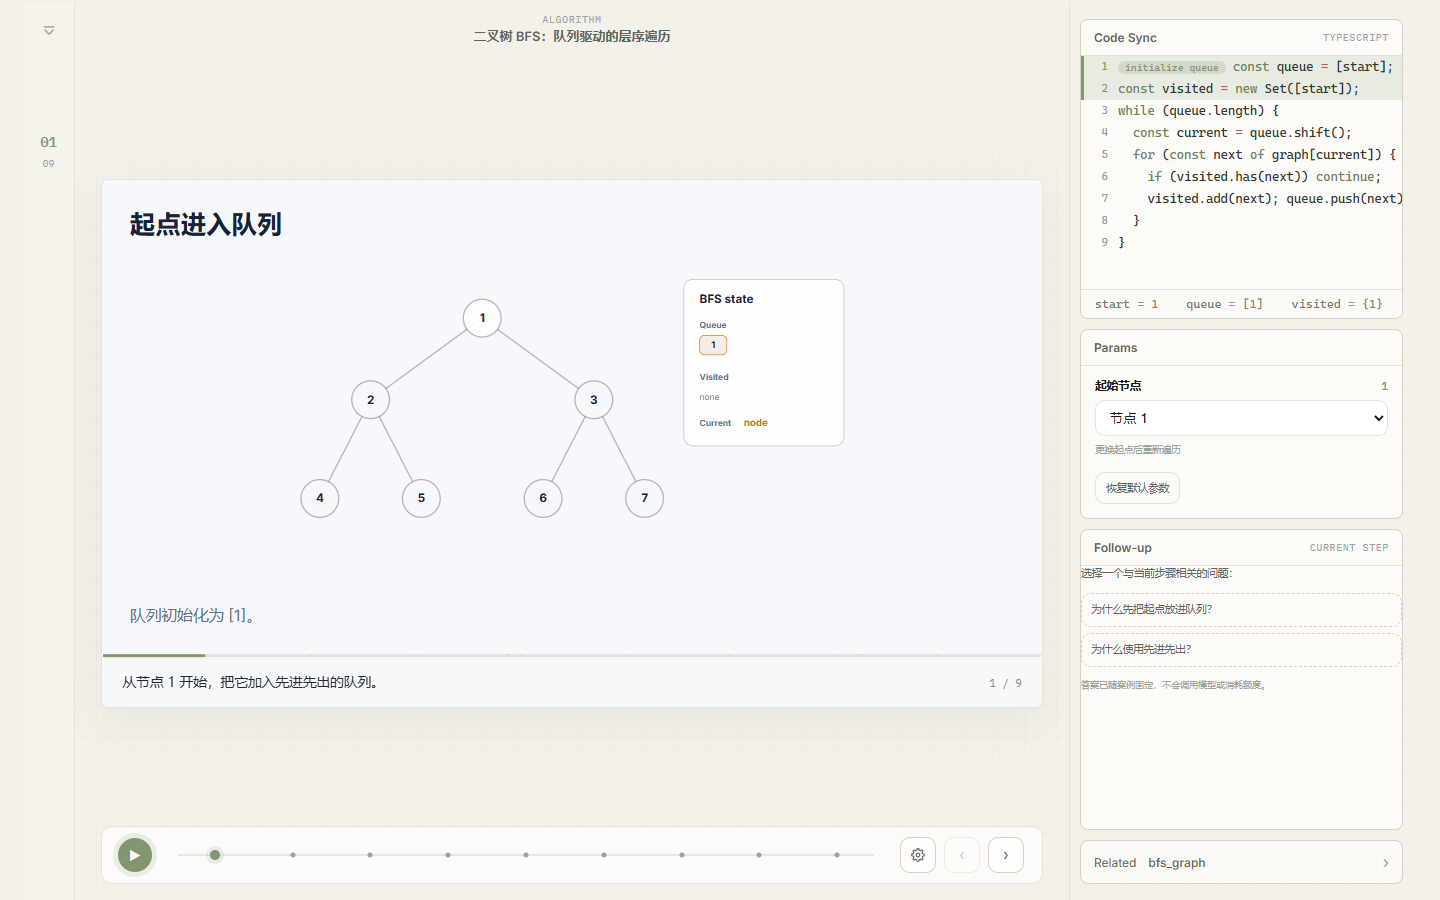
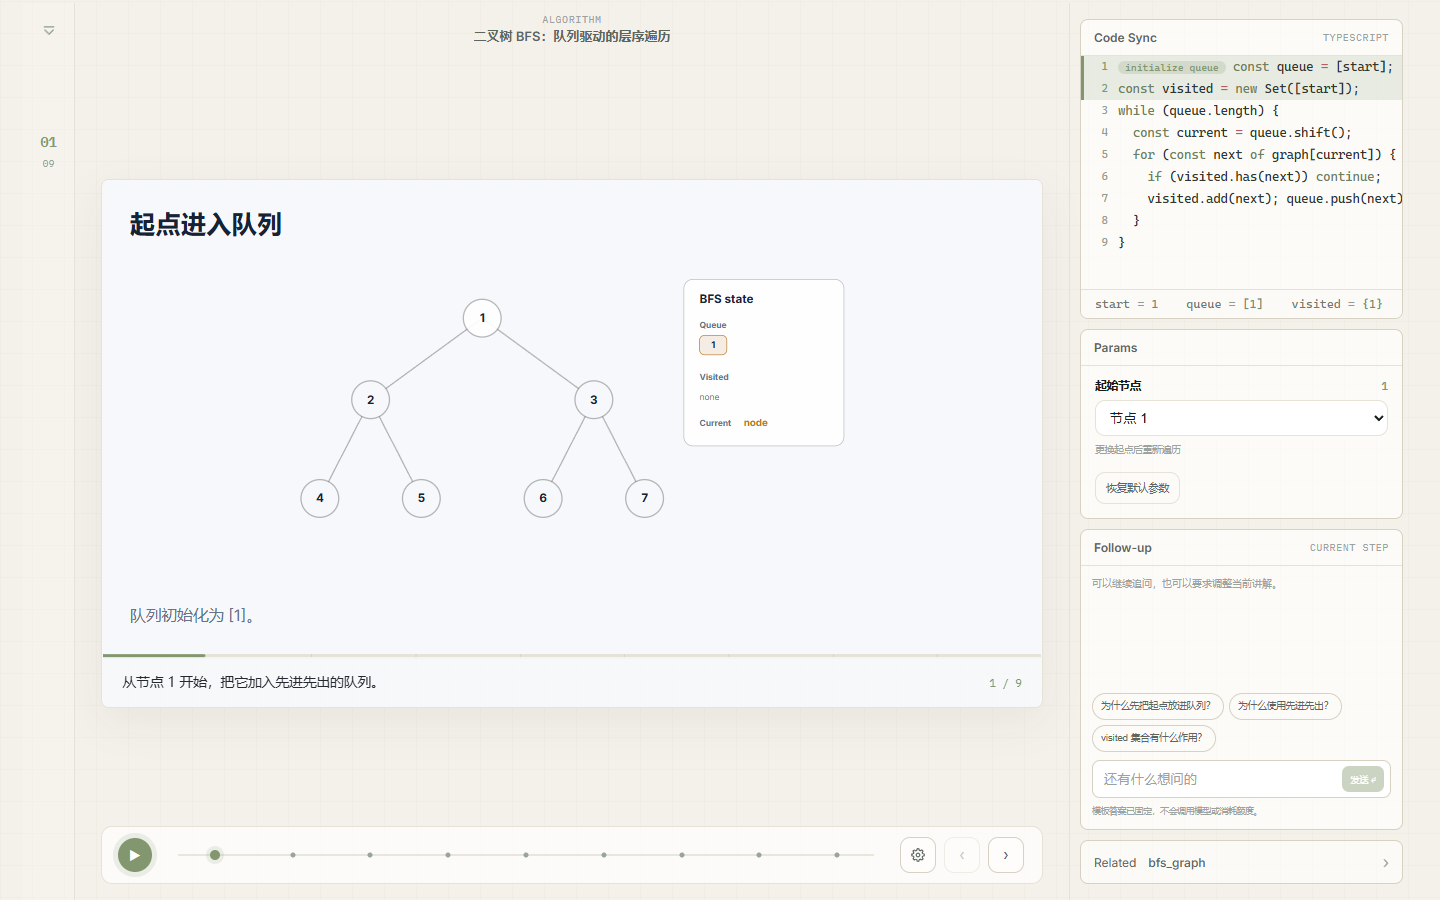
fix(ui): align template follow-up dialog

Changed region(s): [[0.75, 0.7156, 0.9375, 0.9022], [0.75, 0.6222, 0.875, 0.6844], [0.9062, 0.84, 0.9688, 0.9022]]

diff --git a/apps/web/src/styles/pages/templates.css b/apps/web/src/styles/pages/templates.css
@@ -513,23 +513,70 @@
 
 .mv-static-followup {
   width: 100%;
-  display: grid;
-  align-content: start;
-  gap: 11px;
+  height: 100%;
+  min-height: 0;
+  display: flex;
+  flex-direction: column;
+  gap: 8px;
+  padding: 10px 11px 11px;
 }
-.mv-static-followup > p { margin: 0; color: var(--ink-2); font-size: 10.5px; line-height: 1.5; }
-.mv-static-followup__questions { display: grid; gap: 6px; }
+.mv-static-followup__stream {
+  flex: 1 1 auto;
+  min-height: 48px;
+  display: flex;
+  flex-direction: column;
+  gap: 7px;
+  overflow-y: auto;
+}
+
+.mv-static-followup__stream > p {
+  margin: 0;
+  color: var(--ink-3);
+  font-size: 10px;
+  line-height: 1.5;
+}
+
+.mv-static-followup__message {
+  max-width: 92%;
+  padding: 7px 9px;
+  border: 1px solid var(--line);
+  border-radius: 9px;
+  color: var(--ink-2);
+  font-size: 10px;
+  line-height: 1.5;
+}
+
+.mv-static-followup__message.is-user {
+  align-self: flex-end;
+  background: var(--accent-soft);
+  border-color: color-mix(in srgb, var(--accent) 28%, var(--line));
+  color: var(--ink);
+}
+
+.mv-static-followup__message.is-assistant {
+  align-self: flex-start;
+  background: var(--surface-2);
+}
+
+.mv-static-followup__questions {
+  display: flex;
+  flex-wrap: wrap;
+  gap: 5px;
+}
 
 .mv-static-followup__questions button {
-  min-height: 34px;
-  padding: 7px 9px;
-  border: 1px dashed var(--line-2);
-  border-radius: var(--radius-sm);
+  flex: 0 1 auto;
+  max-width: 100%;
+  min-height: 27px;
+  padding: 4px 8px;
+  border: 1px solid var(--line-2);
+  border-radius: 999px;
   background: transparent;
   color: var(--ink-2);
-  font-size: 10.5px;
-  line-height: 1.45;
+  font-size: 9.5px;
+  line-height: 1.35;
   text-align: left;
+  white-space: normal;
   cursor: pointer;
 }
 
@@ -541,15 +588,41 @@
   color: var(--ink);
 }
 
-.mv-static-followup__answer {
-  padding: 10px;
-  border-left: 2px solid var(--accent);
-  background: color-mix(in srgb, var(--accent) 7%, var(--surface));
+.mv-static-followup__input-row {
+  min-height: 36px;
+  display: grid;
+  grid-template-columns: minmax(0, 1fr) auto;
+  align-items: center;
+  gap: 6px;
+  padding: 5px 6px 5px 9px;
+  border: 1px solid var(--line-2);
+  border-radius: 8px;
+  background: var(--surface);
 }
 
-.mv-static-followup__answer strong { color: var(--ink); font-size: 10.5px; }
-.mv-static-followup__answer p { margin: 5px 0 0; color: var(--ink-2); font-size: 10.5px; line-height: 1.55; }
-.mv-static-followup > small { color: var(--ink-3); font-size: 9px; line-height: 1.5; }
+.mv-static-followup__input-row input {
+  min-width: 0;
+  border: 0;
+  outline: 0;
+  background: transparent;
+  color: var(--ink);
+  font: 10px/1.4 inherit;
+}
+
+.mv-static-followup__input-row input::placeholder { color: var(--ink-3); }
+
+.mv-static-followup__input-row button {
+  min-height: 26px;
+  padding: 0 8px;
+  border: 0;
+  border-radius: 7px;
+  background: color-mix(in srgb, var(--accent) 58%, var(--surface));
+  color: var(--surface);
+  font-size: 9px;
+}
+
+.mv-static-followup__input-row button:disabled { cursor: not-allowed; opacity: .72; }
+.mv-static-followup > small { color: var(--ink-3); font-size: 8.5px; line-height: 1.4; }
 
 @keyframes mv-template-reveal {
   from { opacity: 0; transform: translateY(8px); }

diff --git a/apps/web/src/pages/Templates/StaticFollowupPanel.tsx b/apps/web/src/pages/Templates/StaticFollowupPanel.tsx
@@ -7,7 +7,16 @@ export function StaticFollowupPanel({ questions }: { questions: TemplatePreviewQ
 
   return (
     <div className="mv-static-followup">
-      <p>选择一个与当前步骤相关的问题：</p>
+      <div className="mv-static-followup__stream" aria-live="polite">
+        {selected ? (
+          <>
+            <div className="mv-static-followup__message is-user">{selected.question}</div>
+            <div className="mv-static-followup__message is-assistant">{selected.answer}</div>
+          </>
+        ) : (
+          <p>可以继续追问，也可以要求调整当前讲解。</p>
+        )}
+      </div>
       <div className="mv-static-followup__questions">
         {questions.map((item) => (
           <button
@@ -20,14 +29,17 @@ export function StaticFollowupPanel({ questions }: { questions: TemplatePreviewQ
           </button>
         ))}
       </div>
-      {selected ? (
-        <div className="mv-static-followup__answer" role="status" aria-live="polite">
-          <strong>{selected.question}</strong>
-          <p>{selected.answer}</p>
-        </div>
-      ) : (
-        <small>答案已随案例固定，不会调用模型或消耗额度。</small>
-      )}
+      <div className="mv-static-followup__input-row">
+        <input
+          type="text"
+          aria-label="继续追问"
+          placeholder="还有什么想问的"
+          readOnly
+          title="模板案例仅支持上方固定问题"
+        />
+        <button type="button" disabled aria-label="发送追问">发送 ↵</button>
+      </div>
+      <small>模板答案已固定，不会调用模型或消耗额度。</small>
     </div>
   );
 }

diff --git a/apps/web/src/pages/Templates/templatePreviewCases.ts b/apps/web/src/pages/Templates/templatePreviewCases.ts
@@ -486,6 +486,7 @@ function buildBfsFollowups(params: TemplatePreviewParams): TemplatePreviewFollow
       "bfs-intro",
       ["为什么先把起点放进队列？", "队列保存已经发现、但还没有展开邻居的节点。"],
       ["为什么使用先进先出？", "先进先出保证先发现的浅层节点先被处理，因此形成逐层遍历。"],
+      ["visited 集合有什么作用？", "它记录已经发现的节点，避免同一个节点被重复入队和访问。"],
     ),
   };
   trace.forEach((state) => {
@@ -639,7 +640,7 @@ function buildDerivativeFollowups(params: TemplatePreviewParams, script: Playboo
       ["当前切点和斜率是多少？", `切点 a=${fixed(markerX)}，对应导数与切线斜率都是 ${fixed(slope)}。`],
       item.step_id.includes("secant")
         ? ["为什么还不是切线？", "当前仍连接两个不同的函数点；只有当 h 趋近零时，割线才收敛为切线。"]
-        : undefined,
+        : ["导数在图像上表示什么？", "导数表示当前切点处切线的斜率，也就是函数在这一点的瞬时变化率。"],
     ),
   ]));
 }

diff --git a/apps/web/src/styles/pages/playbookLayout.test.ts b/apps/web/src/styles/pages/playbookLayout.test.ts
@@ -45,11 +45,16 @@ describe("playbook layout CSS", () => {
     expect(relatedCard).toContain("flex: 0 0 auto;");
   });
 
-  it("keeps deterministic follow-up questions top-aligned on tall Windows viewports", () => {
+  it("renders deterministic follow-up as one dialog with pills above its input", () => {
     const followup = ruleBody(".mv-static-followup", templatesCssPath);
+    const questions = ruleBody(".mv-static-followup__questions", templatesCssPath);
+    const input = ruleBody(".mv-static-followup__input-row", templatesCssPath);
 
     expect(followup).toContain("width: 100%;");
-    expect(followup).toContain("align-content: start;");
+    expect(followup).toContain("display: flex;");
+    expect(followup).toContain("flex-direction: column;");
+    expect(questions).toContain("flex-wrap: wrap;");
+    expect(input).toContain("grid-template-columns: minmax(0, 1fr) auto;");
   });
 
   it("uses a light semantic track for deterministic range controls", () => {
